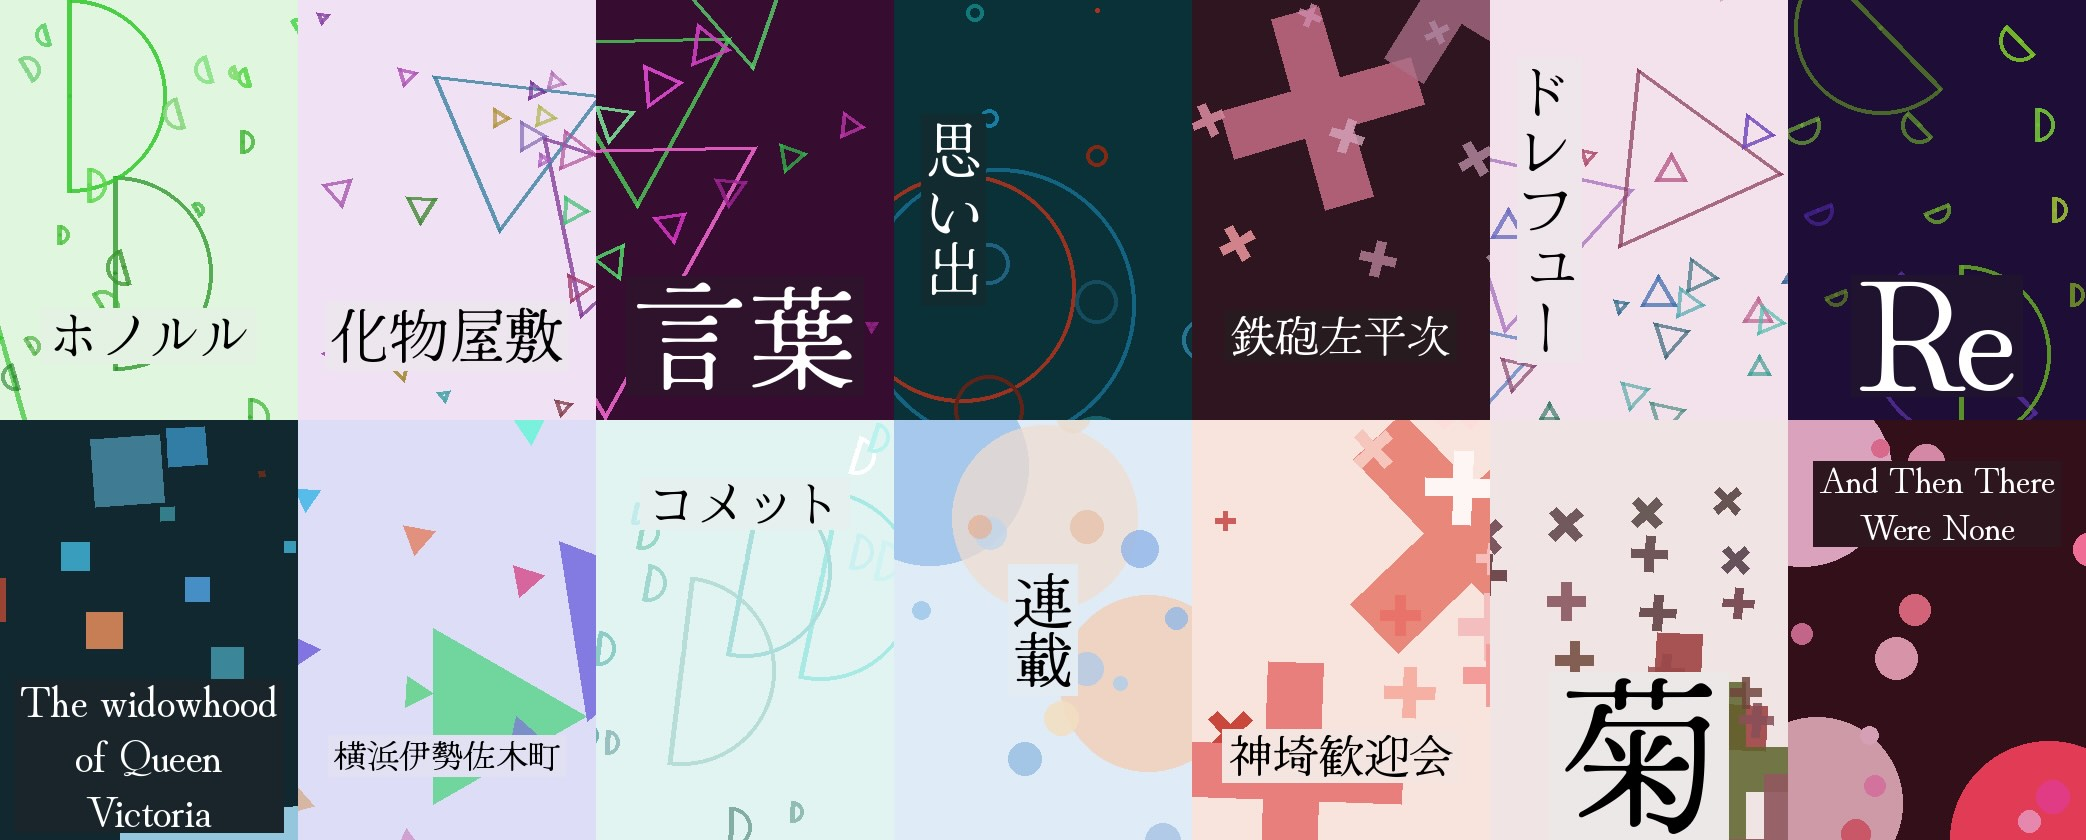
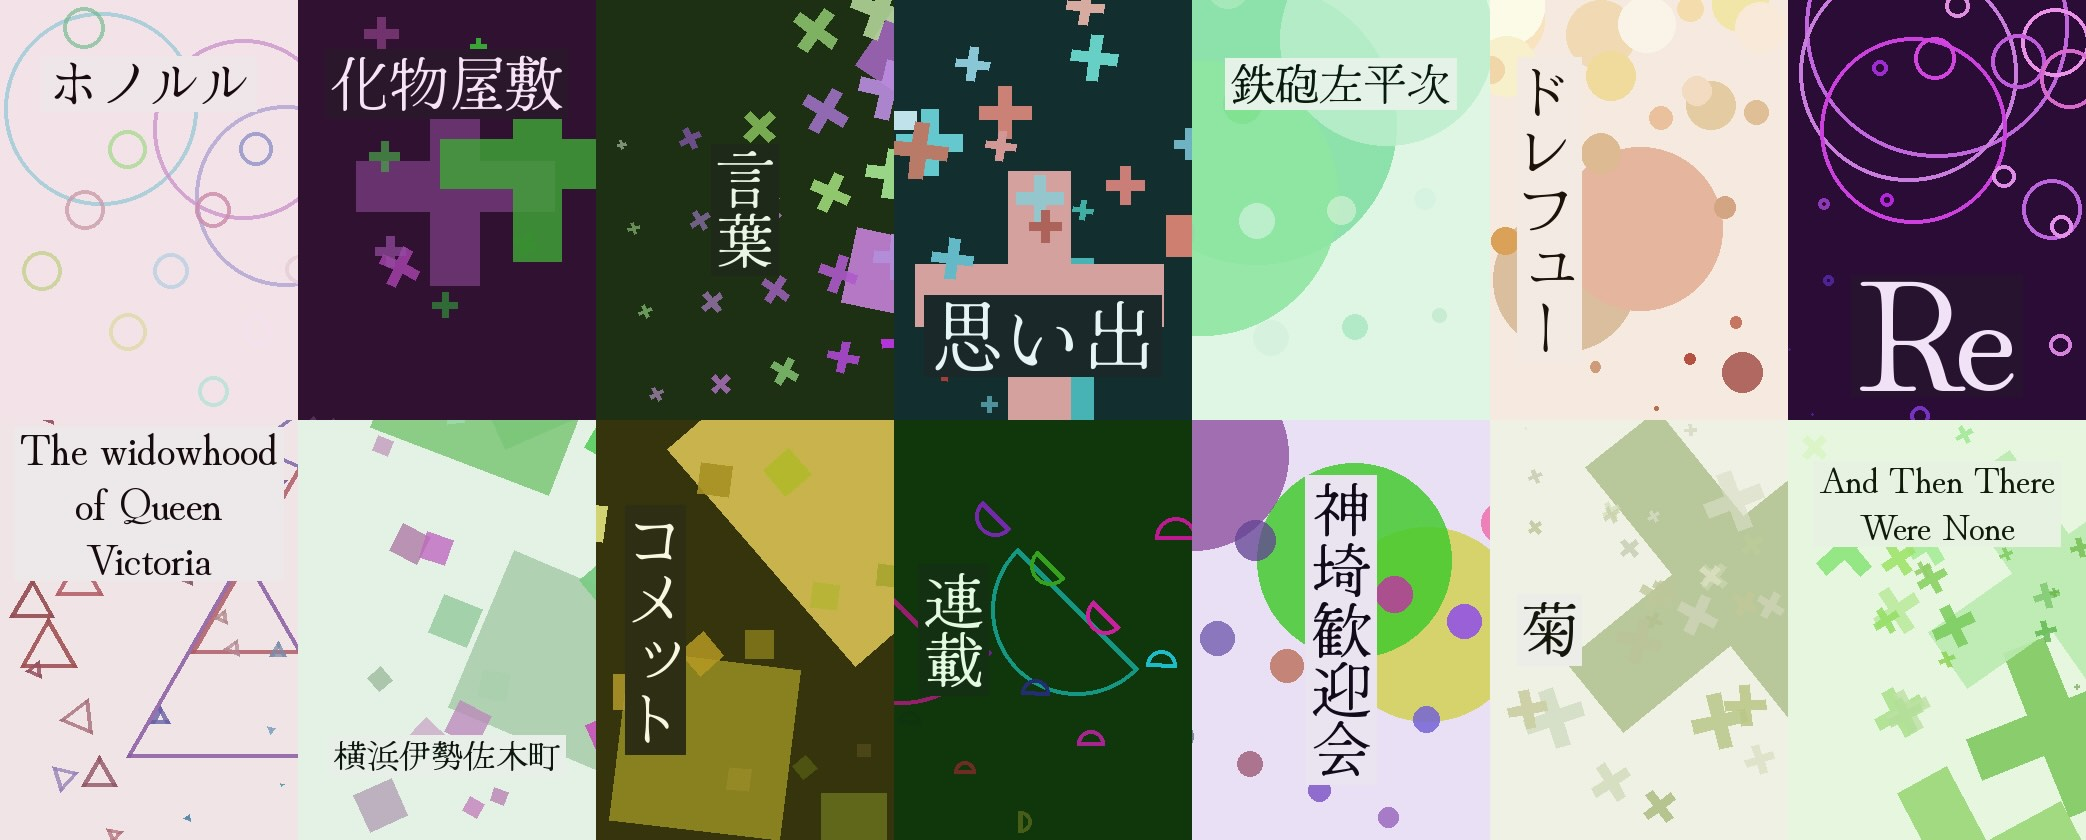
Tint the title font color with primary hue

diff --git a/main.py b/main.py
@@ -602,6 +602,9 @@ def draw_title(
     )
 
     is_dark = background_color_hsl[2] < 50
+    text_color = ImageColor.getrgb(
+        f"hsl({background_color_hsl[0]}, {background_color_hsl[1]}%, {93 if is_dark else 7}%)"
+    )
 
     draw = ImageDraw.Draw(image, "RGBA")
 
@@ -661,7 +664,7 @@ def draw_title(
             (box[0][0] + padding - text_bbox[0], box[0][1] + padding - text_bbox[1]),
             title,
             font=fnt,
-            fill=(255, 255, 255) if is_dark else (0, 0, 0),
+            fill=text_color,
             align="center",
             direction="ltr",
         )
@@ -715,7 +718,7 @@ def draw_title(
             (box[0][0] + padding - text_bbox[0], box[0][1] + padding - text_bbox[1]),
             title,
             font=fnt,
-            fill=(255, 255, 255) if is_dark else (0, 0, 0),
+            fill=text_color,
             align="left",
             direction="ttb",
         )
